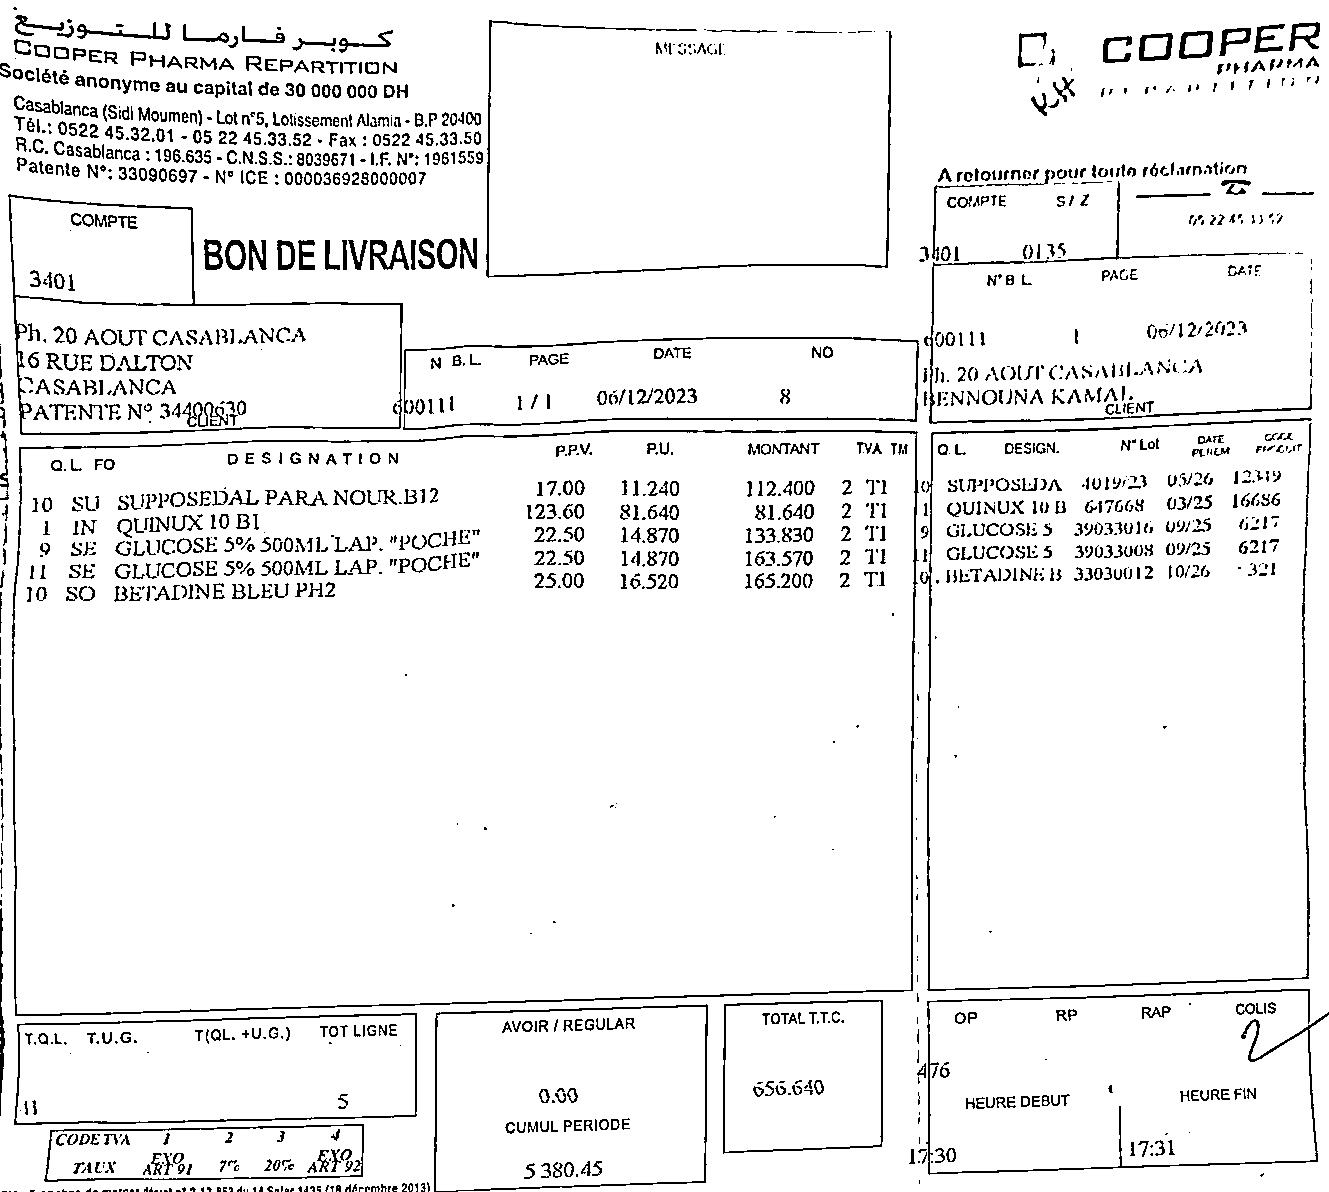
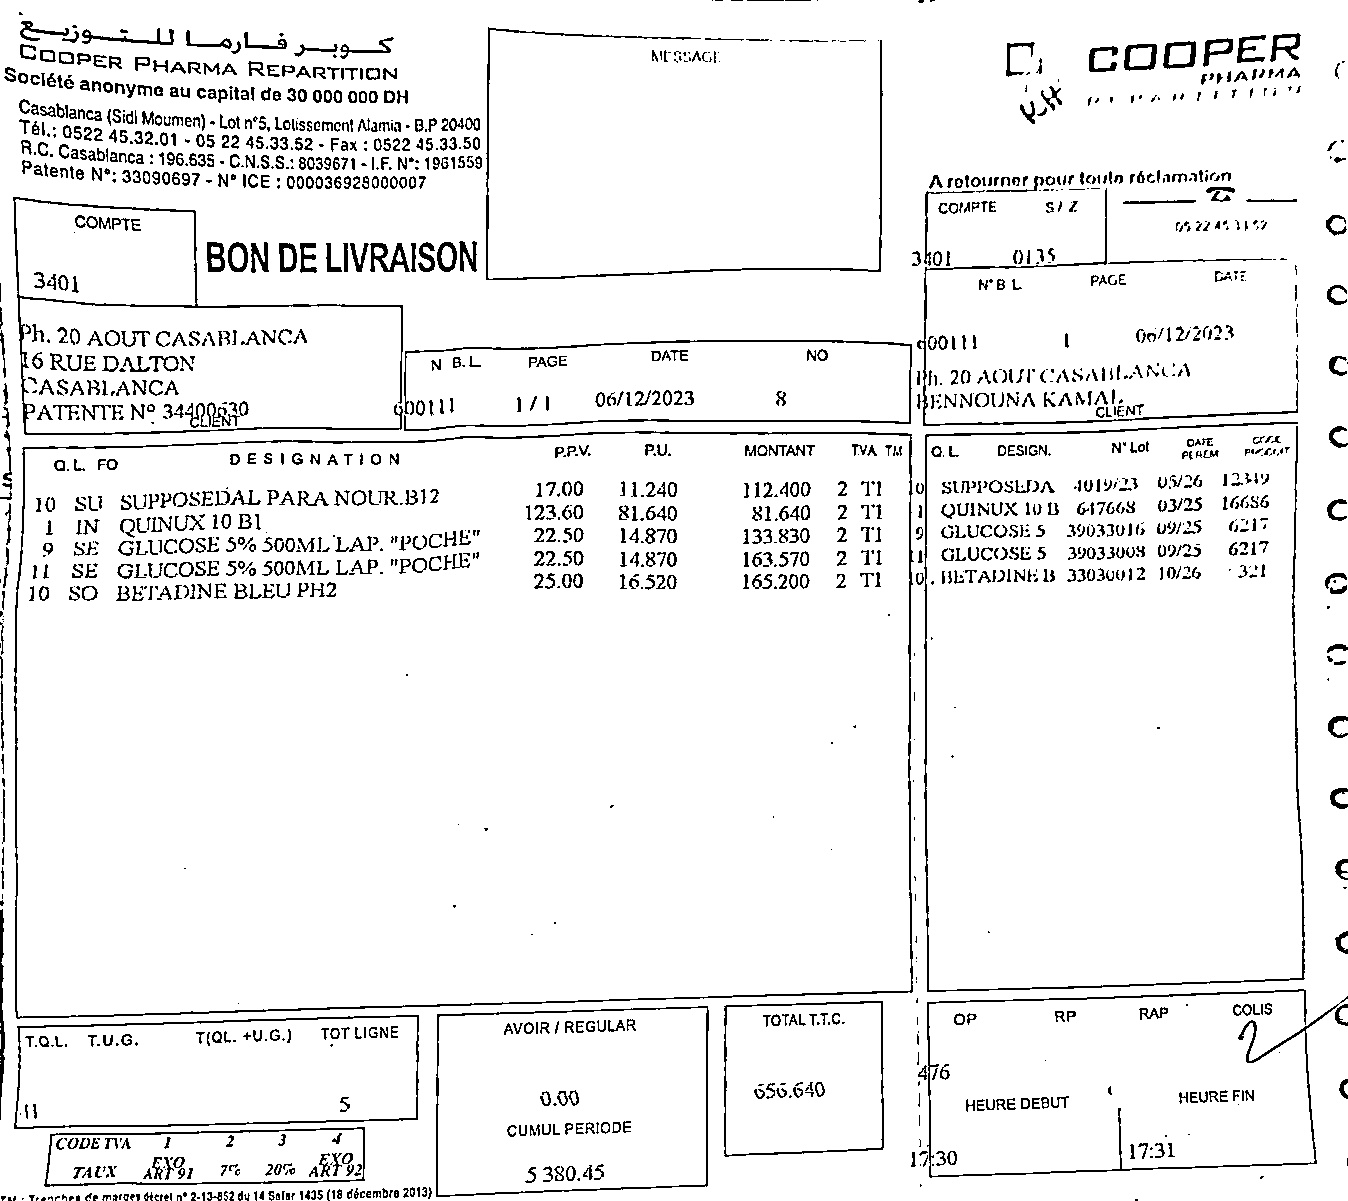
Changes pc sophatel - first version of filter magic config

diff --git a/magic_pro_filter_temp.py b/magic_pro_filter_temp.py
@@ -5,6 +5,7 @@ from wand.image import Image as WandImage
 
 import constants
 
+
 def straighten_image_with_imagemagick(image_path):
     with WandImage(filename=image_path) as img:
         img.deskew(0.4 * img.quantum_range)  # Deskew the image
@@ -18,13 +19,24 @@ def show_image(image, title="Image"):
     plt.axis('off')
     plt.show()
 
+
 def apply_magic_pro_filter(image_path, output_path, model):
     settings = constants.model_settings_magicpro_filter[model]
 
     image = cv2.imread(image_path)
     assert image is not None, "Failed to load image"
 
+    # # Straighten the image using ImageMagick
+    # straightened_image_path = straighten_image_with_imagemagick(image_path)
+    # straightened_image = cv2.imread(straightened_image_path)
+    # assert straightened_image is not None, "Failed to load straightened image"
+    #
+    # # Show the straightened image
+    # show_image(straightened_image, title="Straightened Image")
+
+    """ Clear Magic Pro Filter  """
     # Apply Gaussian Blur to reduce noise
+    # blurred = cv2.GaussianBlur(straightened_image, settings['gaussian_blur'], 0)
     blurred = cv2.GaussianBlur(image, settings['gaussian_blur'], 0)
 
     # Convert to LAB color space to work with brightness
@@ -41,11 +53,11 @@ def apply_magic_pro_filter(image_path, output_path, model):
     # Convert back to BGR color space
     enhanced_image = cv2.cvtColor(limg, cv2.COLOR_LAB2BGR)
 
-    # Apply noise reduction
-    denoised_image = cv2.fastNlMeansDenoisingColored(enhanced_image, None, settings['h'], settings['hForColorComponents'], settings['templateWindowSize'], settings['searchWindowSize'])
+    """ Clear the white fog or beam effect in the image """
 
+    """ Increase contrast and brightness (lighting) """
     # Increase contrast and brightness
-    adjusted = cv2.convertScaleAbs(denoised_image, alpha=settings['contrast_alpha'], beta=settings['brightness_beta'])
+    adjusted = cv2.convertScaleAbs(enhanced_image, alpha=settings['contrast_alpha'], beta=settings['brightness_beta'])
 
     # Apply sharpening kernel
     kernel = np.array([[0, -1, 0],
@@ -53,6 +65,7 @@ def apply_magic_pro_filter(image_path, output_path, model):
                        [0, -1, 0]])
     sharpened = cv2.filter2D(adjusted, -1, kernel)
 
+    """ Create Mask of the Thickened text """
     # Convert to grayscale
     gray = cv2.cvtColor(sharpened, cv2.COLOR_BGR2GRAY)
 
@@ -64,25 +77,18 @@ def apply_magic_pro_filter(image_path, output_path, model):
     kernel = np.ones(settings['dilate_kernel_size'], np.uint8)
     thickened = cv2.dilate(binary, kernel, iterations=settings['dilate_iterations'])
 
+    """ Apply the Mask of the Thickened text """
     # Merge thickened text back with the original color image
     colored_thickened = cv2.bitwise_and(sharpened, sharpened, mask=thickened)
 
-    # Convert to HSV color space
-    hsv = cv2.cvtColor(colored_thickened, cv2.COLOR_BGR2HSV)
-    h, s, v = cv2.split(hsv)
-
-    # Increase saturation
-    s = cv2.multiply(s, settings['saturation_factor'])
-
-    # Merge the channels back and convert to BGR
-    hsv_colored = cv2.merge([h, s, v])
-    final_image = cv2.cvtColor(hsv_colored, cv2.COLOR_HSV2BGR)
-
+    """ Save the image transformed """
     # Save the result
-    cv2.imwrite(output_path, final_image)
+    cv2.imwrite(output_path, colored_thickened)
     print(f"Filtered image saved to {output_path}")
 
+
 if __name__ == "__main__":
-    input_image_path = 'output/cropped_spr_iphn.jpg'
+    # input_image_path = 'output/BL_scanned_1_1.jpg'  # cropped_model05.jpeg
+    input_image_path = 'output/cropped_spr_iphn.jpg'  # cropped_model05.jpeg
     output_image_path = 'output/filtered_cropped_spr_iphn.jpg'
     apply_magic_pro_filter(input_image_path, output_image_path, 'SPR')

diff --git a/magic_pro_filter_backup.py b/magic_pro_filter_backup.py
@@ -5,6 +5,7 @@ from wand.image import Image as WandImage
 
 import constants
 
+
 def straighten_image_with_imagemagick(image_path):
     with WandImage(filename=image_path) as img:
         img.deskew(0.4 * img.quantum_range)  # Deskew the image
@@ -18,13 +19,24 @@ def show_image(image, title="Image"):
     plt.axis('off')
     plt.show()
 
+
 def apply_magic_pro_filter(image_path, output_path, model):
     settings = constants.model_settings_magicpro_filter[model]
 
     image = cv2.imread(image_path)
     assert image is not None, "Failed to load image"
 
+    # # Straighten the image using ImageMagick
+    # straightened_image_path = straighten_image_with_imagemagick(image_path)
+    # straightened_image = cv2.imread(straightened_image_path)
+    # assert straightened_image is not None, "Failed to load straightened image"
+    #
+    # # Show the straightened image
+    # show_image(straightened_image, title="Straightened Image")
+
+    """ Clear Magic Pro Filter  """
     # Apply Gaussian Blur to reduce noise
+    # blurred = cv2.GaussianBlur(straightened_image, settings['gaussian_blur'], 0)
     blurred = cv2.GaussianBlur(image, settings['gaussian_blur'], 0)
 
     # Convert to LAB color space to work with brightness
@@ -41,11 +53,11 @@ def apply_magic_pro_filter(image_path, output_path, model):
     # Convert back to BGR color space
     enhanced_image = cv2.cvtColor(limg, cv2.COLOR_LAB2BGR)
 
-    # Apply noise reduction
-    denoised_image = cv2.fastNlMeansDenoisingColored(enhanced_image, None, settings['h'], settings['hForColorComponents'], settings['templateWindowSize'], settings['searchWindowSize'])
+    """ Clear the white fog or beam effect in the image """
 
+    """ Increase contrast and brightness (lighting) """
     # Increase contrast and brightness
-    adjusted = cv2.convertScaleAbs(denoised_image, alpha=settings['contrast_alpha'], beta=settings['brightness_beta'])
+    adjusted = cv2.convertScaleAbs(enhanced_image, alpha=settings['contrast_alpha'], beta=settings['brightness_beta'])
 
     # Apply sharpening kernel
     kernel = np.array([[0, -1, 0],
@@ -53,6 +65,7 @@ def apply_magic_pro_filter(image_path, output_path, model):
                        [0, -1, 0]])
     sharpened = cv2.filter2D(adjusted, -1, kernel)
 
+    """ Create Mask of the Thickened text """
     # Convert to grayscale
     gray = cv2.cvtColor(sharpened, cv2.COLOR_BGR2GRAY)
 
@@ -64,6 +77,7 @@ def apply_magic_pro_filter(image_path, output_path, model):
     kernel = np.ones(settings['dilate_kernel_size'], np.uint8)
     thickened = cv2.dilate(binary, kernel, iterations=settings['dilate_iterations'])
 
+    """ Apply the Mask of the Thickened text """
     # Merge thickened text back with the original color image
     colored_thickened = cv2.bitwise_and(sharpened, sharpened, mask=thickened)
 
@@ -78,11 +92,15 @@ def apply_magic_pro_filter(image_path, output_path, model):
     hsv_colored = cv2.merge([h, s, v])
     final_image = cv2.cvtColor(hsv_colored, cv2.COLOR_HSV2BGR)
 
+
+    """ Save the image transformed """
     # Save the result
     cv2.imwrite(output_path, final_image)
     print(f"Filtered image saved to {output_path}")
 
+
 if __name__ == "__main__":
-    input_image_path = 'output/cropped_spr_iphn.jpg'
+    # input_image_path = 'output/BL_scanned_1_1.jpg'  # cropped_model05.jpeg
+    input_image_path = 'output/cropped_spr_iphn.jpg'  # cropped_model05.jpeg
     output_image_path = 'output/filtered_cropped_spr_iphn.jpg'
     apply_magic_pro_filter(input_image_path, output_image_path, 'SPR')

diff --git a/magic_pro_filter__2.py b/magic_pro_filter__2.py
@@ -1,0 +1,39 @@
+from PIL import Image, ImageEnhance, ImageFilter
+import numpy as np
+import cv2
+
+
+def apply_magicpro_filter(image_path, contrast=0, brightness=0, details=100):
+    # Load image
+    image = Image.open(image_path)
+
+    # Convert to numpy array
+    image_np = np.array(image)
+
+    # Apply noise reduction using OpenCV
+    image_np = cv2.fastNlMeansDenoisingColored(image_np, None, 30, 30, 7, 21)
+
+    # Convert back to PIL image
+    image = Image.fromarray(image_np)
+
+    # Apply contrast
+    enhancer = ImageEnhance.Contrast(image)
+    image = enhancer.enhance(1 + (contrast / 100.0))
+
+    # Apply brightness
+    enhancer = ImageEnhance.Brightness(image)
+    image = enhancer.enhance(1 + (brightness / 100.0))
+
+    # Apply sharpness
+    enhancer = ImageEnhance.Sharpness(image)
+    image = enhancer.enhance(details / 50.0)  # Scaling to make it more effective
+
+    return image
+
+
+# Usage example
+image_path = 'output/cropped_spr_iphn.jpg'  # cropped_model05.jpeg
+output_image_path = 'output/filtered_2.jpg'
+filtered_image = apply_magicpro_filter(image_path, contrast=0, brightness=0, details=50)
+filtered_image.save(output_image_path)
+filtered_image.show()

diff --git a/constants_backup.py b/constants_backup.py
@@ -23,21 +23,16 @@ model_settings_magicpro_filter = {
         'dilate_iterations': 1
     },
     'SPR': {
-        'gaussian_blur': (5, 5),
+        'gaussian_blur': (3, 3),
         'clahe_clip_limit': 2.5,
         'clahe_tile_grid_size': (100, 100),
         'contrast_alpha': 1.1,
-        'brightness_beta': 20,
-        'adaptive_thresh_block_size': 15,
+        'brightness_beta': 15,
+        'adaptive_thresh_block_size': 13,
         'adaptive_thresh_C': 100,
         'dilate_kernel_size': (1, 1),
         'dilate_iterations': 1,
-        'saturation_factor': 2.0,  # Increase this value to concentrate colors more
-        'h': 10,  # Filter strength for luminance component
-        'hForColorComponents': 10,  # Same as h but for color components
-        'templateWindowSize': 0,  # Size in pixels of the template patch that is used to compute weights
-        'searchWindowSize': 41  # Size in pixels of the window that is used to compute weighted average for given pixel
-
+        'saturation_factor': 2.5
     },
     'SOPHADIMS': {
         'gaussian_blur': (5, 5),

diff --git a/scan.py b/scan.py
@@ -415,7 +415,7 @@ class DocScanner(object):
 
         ratio = image.shape[0] / RESCALED_HEIGHT
         orig = image.copy()
-        rescaled_image = imutils.resize(image, height = int(RESCALED_HEIGHT))
+        rescaled_image = imutils.resize(image, height=int(RESCALED_HEIGHT))
 
         # get the contour of the document
         screenCnt = self.get_contour(rescaled_image)
